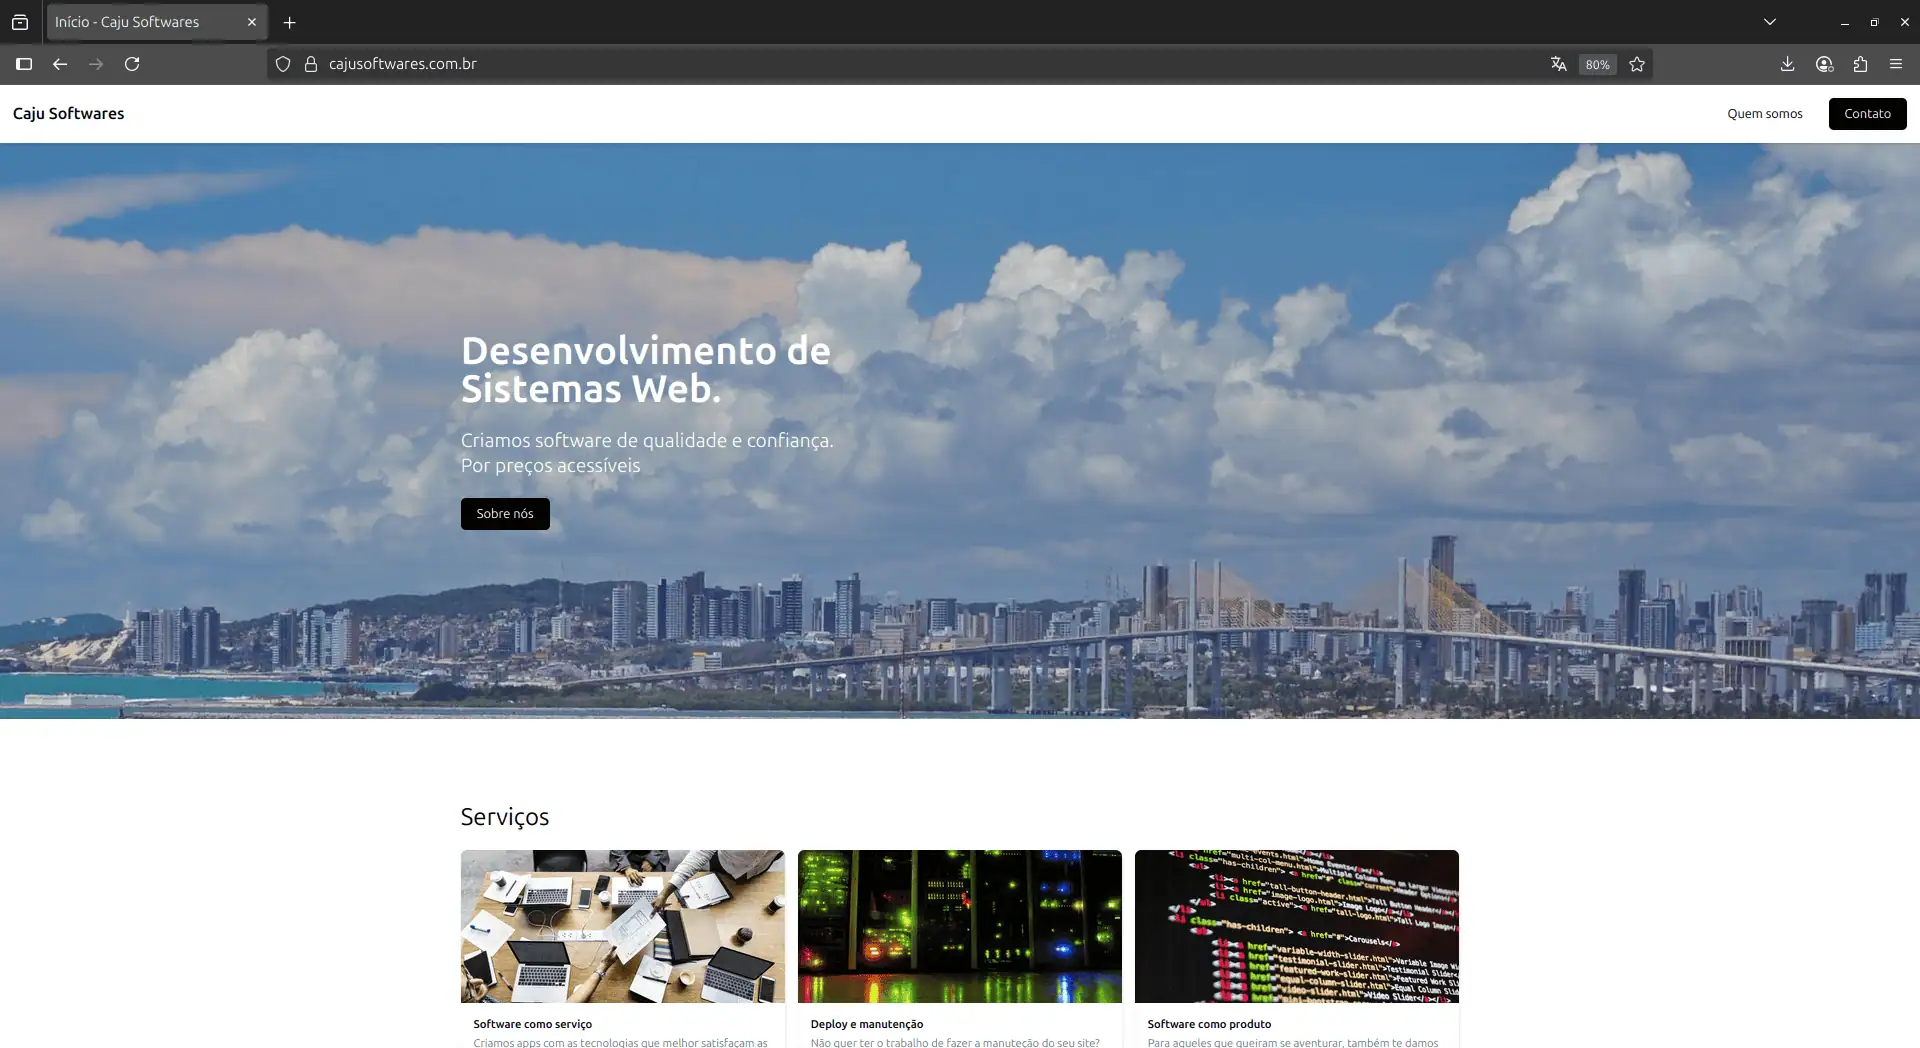
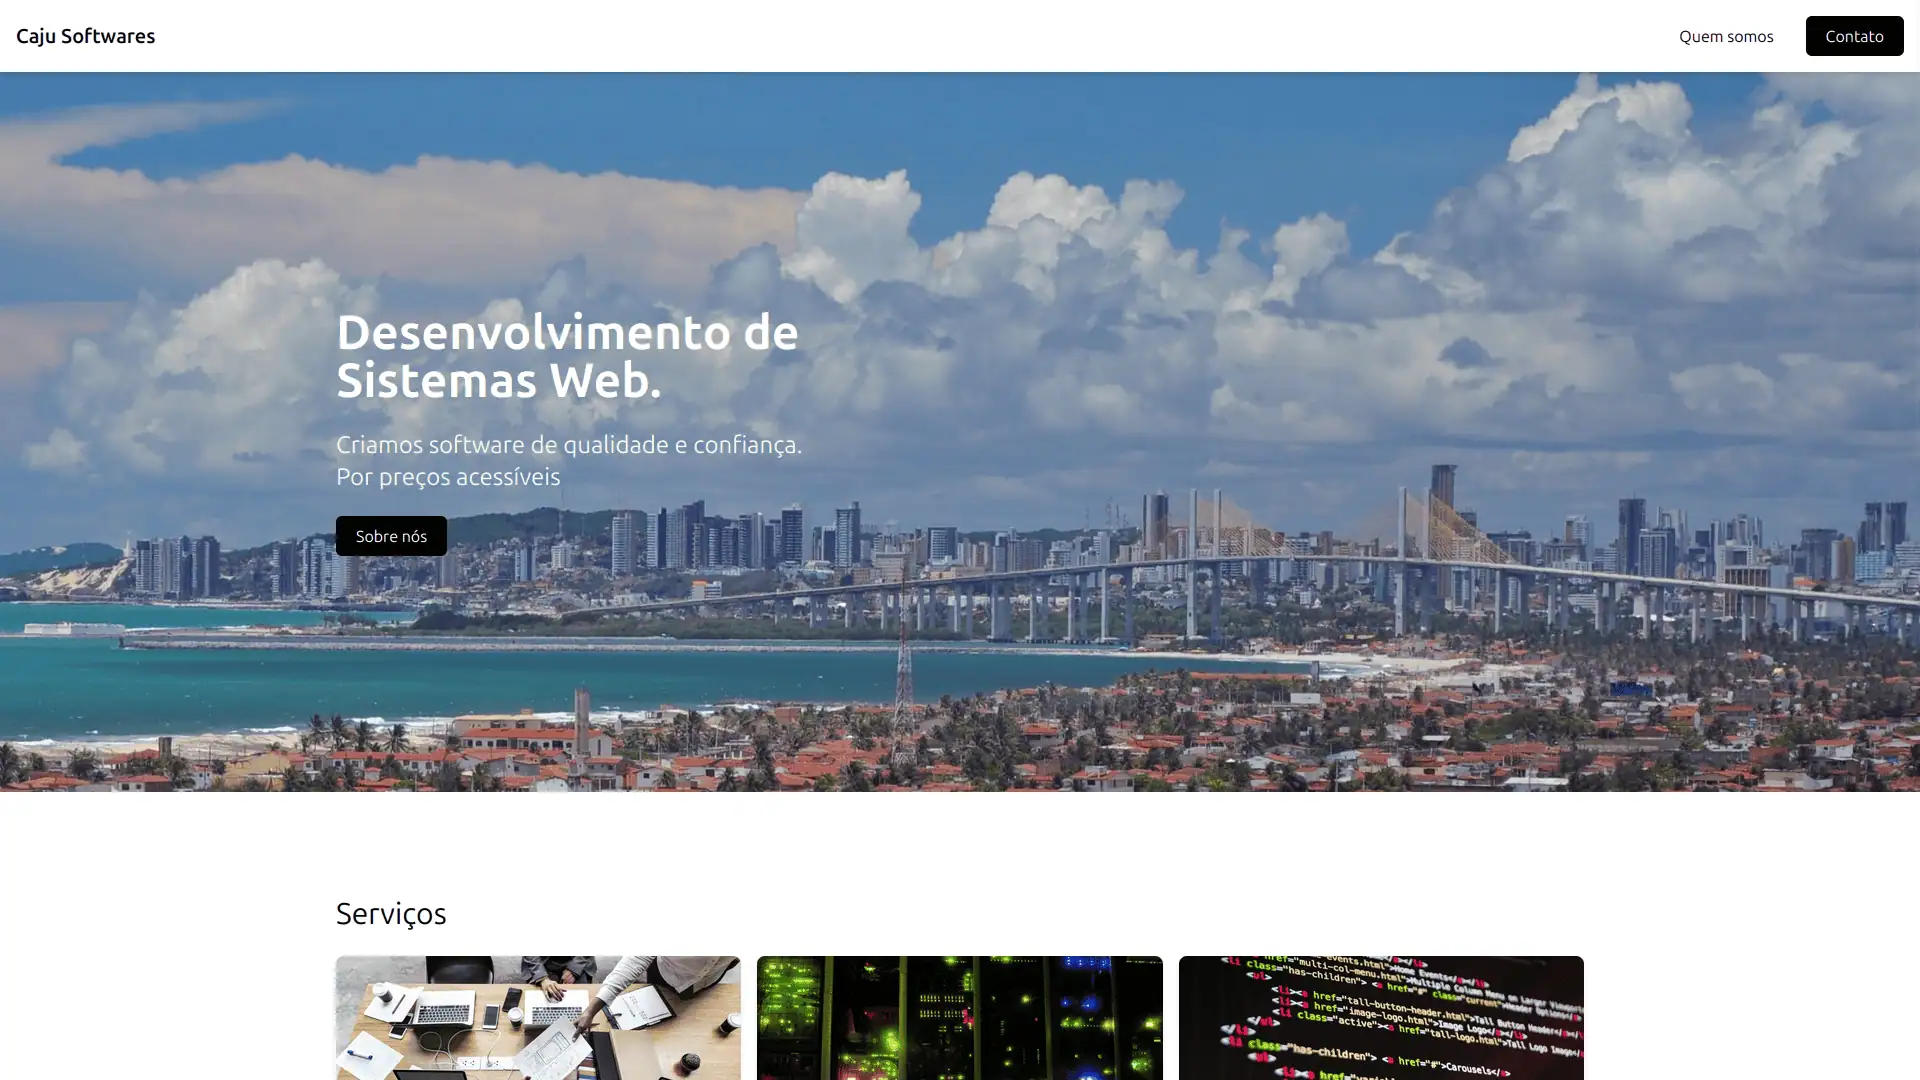
style: Making stuff prettier
Changed the images in the project cards
Changed hero image for improved readability
Added keys to li so React doesn't get mad

diff --git a/src/components/ProjectCard.tsx b/src/components/ProjectCard.tsx
@@ -59,12 +59,17 @@ function ProjectCard({
     projectUrl,
     imageSide
 }: ProjectCardProps) {
-    const tags = technologies.map((t) => {
+
+    const tags = technologies.map((t, i) => {
         const bgColor = getColor(t)
-        return <li className={`${bgColor} text-white font-semibold py-1 px-4 rounded-full`} >{t}</li>
+        return <li key={i} className={`${bgColor} text-white font-semibold py-1 px-4 rounded-full`} >{t}</li>
     });
 
-    const img = <a href={projectUrl} target="_blank"><img className="max-w-xs md:max-w-lg rounded-sm" src={imgSrc} alt={imgAlt} /></a>
+    const img = (
+        <a href={projectUrl ?? "#projects"} target={projectUrl ? "_blank" : "_self"}>
+            <img className="max-w-xs md:max-w-lg rounded-sm border border-stone-200" src={imgSrc} alt={imgAlt} />
+        </a>
+    )
     const div = (
                 <div className="flex flex-col gap-4 justify-center sm:min-w-sm max-w-sm order-1 lg:order-none">
                     <h1 className="text-2xl font-semibold mx-auto">

diff --git a/src/components/AboutMeCard.tsx b/src/components/AboutMeCard.tsx
@@ -1,7 +1,7 @@
 function AboutMeCard() {
     return (
         <div className='max-w-[] sm:max-w-lg mt-10 rounded-2xl p-6 backdrop-blur-md bg-white/10 border border-white/20 shadow-lg text-white'>
-            <p className='mb-4 text-lg'>
+            <p className='mb-4 text-lg font-semibold'>
                 Oi, meu nome é Pedro. Sou desenvolvedor de sistemas web. =)
             </p>
             <p className='mb-4 text-sm'>

diff --git a/src/components/Hero.tsx b/src/components/Hero.tsx
@@ -7,7 +7,7 @@ interface HeroProps {
 function Hero({ children }: HeroProps) {
     return (
         <div
-            className='bg-[url(/assets/hero.webp)] bg-cover bg-no-repeat pt-[74px] text-white'
+            className='bg-[url(/assets/hero.png)] bg-cover bg-no-repeat pt-[74px] text-white'
             id='about'
         >
             {children}

diff --git a/src/components/Main.tsx b/src/components/Main.tsx
@@ -30,7 +30,6 @@ function Main() {
                 imageSide="right"
                 />
                 <ProjectCard 
-                projectUrl=""
                 imgSrc="/assets/rnsus.webp"
                 imgAlt="Imagem website de gerenciamento de inventário."
                 heading="RNSUS - DTIC/PMRN"
